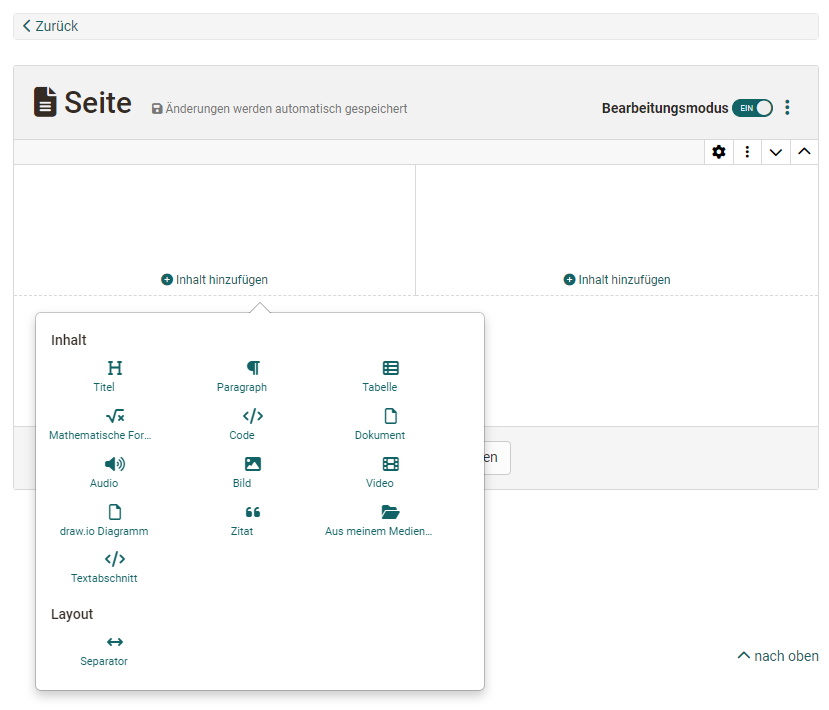
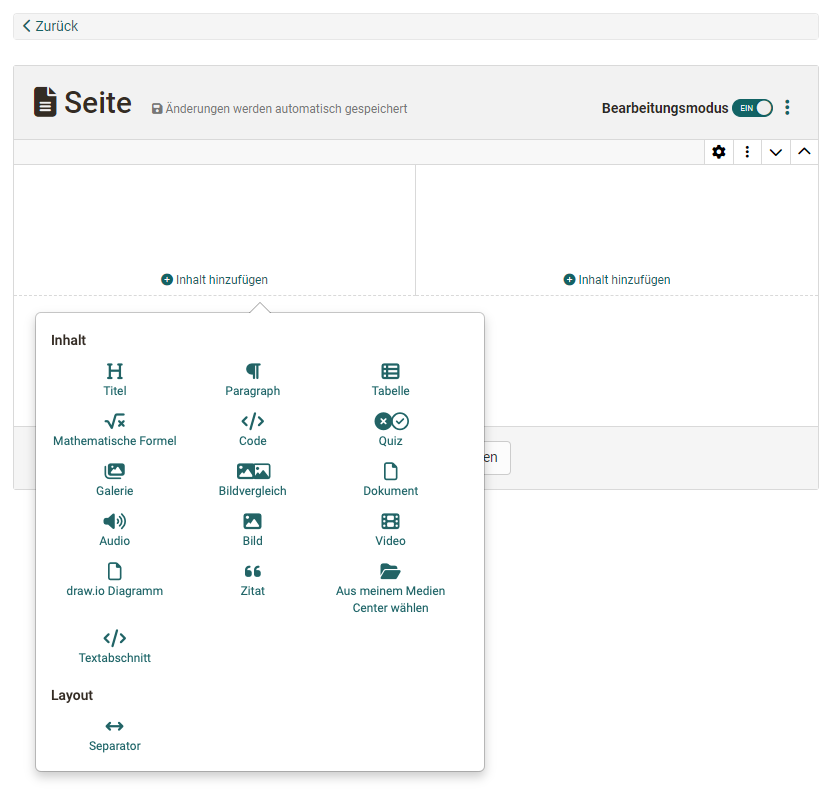
Benutzer HB: Update Bildergallerie, Bildervergleich

diff --git a/sites/manual_user/docs/basic_concepts/Content_Editor.de.md b/sites/manual_user/docs/basic_concepts/Content_Editor.de.md
@@ -107,7 +107,7 @@ Auch um zwischendurch in die Vorschau zu wechseln, ohne den Editor zu verlassen,
 * Ein Block ist der gesamte Inhalt eines Feldes im Layout. 
 * Es können mehrere Inhalte in einen Block eingefügt werden, z.B. ein Titel und ein Text. 
 
-![content_editor_add_content_page_v2_de.png](assets/content_editor_add_content_page_v2_de.png){ class="shadow lightbox" title="Inhaltsblöcke im Kursbaustein Seite"}
+![content_editor_add_content_page_v3_de.png](assets/content_editor_add_content_page_v3_de.png){ class="shadow lightbox" title="Inhaltsblöcke im Kursbaustein Seite"}
 
 ![content_editor_add_content_form_v1_de.png](assets/content_editor_add_content_form_v1_de.png){ class="shadow lightbox" title="Inhaltsblöcke in der Lernressource Formular"}
 
@@ -196,9 +196,15 @@ Es können alle im Medien Center verfügbaren Bilder eingebunden werden. Neue Bi
 
 <h3>Galerie</h3>
 
-Mehrere Bilder können in einem Galerie-Element durchgeblättert werden. Im Inspektor kann das Erscheinungsbild der Galerie variiert werden. Die Bilder entstammen dem Medien Center. 
+Mehrere Bilder können in einem Galerie-Element durchgeblättert werden (Slideshow), in einem Raster dargestellt werden (Spalten und Zeilen von Autor:innen definierbar) oder mit mit vorschau dargestellt werden (1 Bild gross, die übrigen Bilder als verkleinerte Vorschaubilder). Im Inspektor kann das Erscheinungsbild der Galerie variiert werden. Die Bilder entstammen dem Medien Center. 
 
 ![content_editor_content_galerie_v1_de.png](assets/content_editor_content_galerie_v1_de.png){ class="shadow lightbox" }
+
+<h3>Bildervergleich</h3>
+
+Zwei übereinander liegende Bilder können durch einen Schieberegler überblendet werden.
+
+![content_editor_content_compare_images_v1_de.png](assets/content_editor_content_compare_images_v1_de.png){ class="shadow lightbox" }
 
 <h3>Separator</h3>
 

diff --git a/sites/manual_user/docs/learningresources/Course_Element_Page.de.md b/sites/manual_user/docs/learningresources/Course_Element_Page.de.md
@@ -56,6 +56,8 @@ Es stehen folgende Inhaltselemente zur Verfügung:
 * **Dokument:** Word-, PowerPoint- oder Excel-Dokumente können sowohl hochgeladen als auch direkt erstellt werden. PDF und andere können hochgeladen oder aus dem Medien Center übernommen werden.
 * **Audio:** Audio auswählen, neu aufnehmen oder als MP3 oder m4a Datei hinzufügen. Ab :octicons-tag-24: Release 18.2. 
 * **Bild:** Einfügen eines Bildes aus dem Medien Center bzw. Upload.
+* **Bildergalerie:** Darstellung mehrerer Bilder als Slideshow, in einem Raster oder mit kleinen Vorschaubildern. Ab :octicons-tag-24: Release 19. 
+* **Bildervergleich:** Zwei übereinander liegende Bilder können durch einen Schieberegler überblendet werden. Ab :octicons-tag-24: Release 19. 
 * **Video:** Einfügen einer Videodatei aus dem Medien Center bzw. Upload oder neues Recording
 * **draw.io Diagramm:** Neu erstellen oder aus der Liste auswählen. Ab :octicons-tag-24: Release 18.2. 
 * **Zitat:** Zitate können im Medien Center als eigenständige Inhaltselemente abgelegt und wiederverwendet werden.
